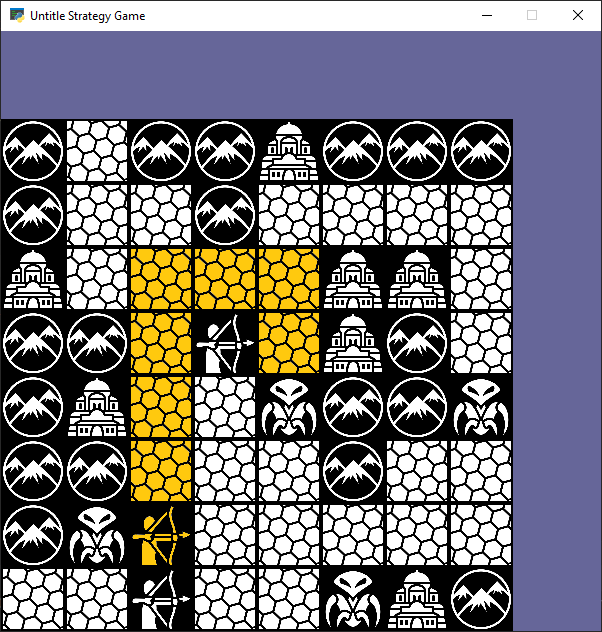
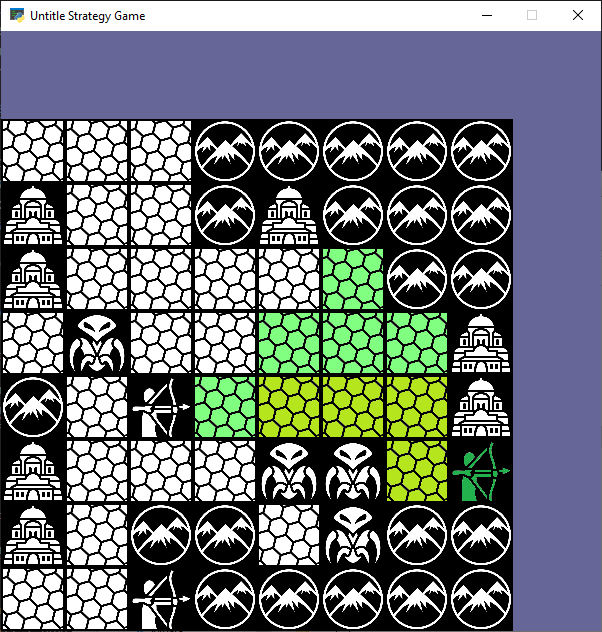
Updated README file, uploaded new screenshots and gif.

diff --git a/README.md b/README.md
@@ -1,6 +1,6 @@
 #### What is this game?
 
-At the current state, there is nothing to play. The game is in the very early stage of the development.
+The game is in the very early stage of the development and there is not much to play with. That said, I am getting close to the first pre-alpha release – please see ROADMAP.md for more info.
 
 
 #### OK, so what will this game be like in the future?
@@ -15,14 +15,25 @@ The goal is to learn something new. I will try to use design patterns, tinker wi
 
 #### How does it look like?
 
-Right now, the game looks pretty basic, please see below.
+For the prototyping, I use graphics from game-icons.net (appropiate license notices are included in this repository). At some point, I would like to overhaul the graphics and use a custom-made pixel sprites. 
 
-![alt text](https://github.com/VedVid/untitled-strategy-game/blob/development/images/1.png)
+![player-movement](https://github.com/VedVid/untitled-strategy-game/blob/development/images/1.png)
+![player-attack](https://github.com/VedVid/untitled-strategy-game/blob/development/images/2.png)
+![gif](https://github.com/VedVid/untitled-strategy-game/blob/development/images/3.gif)
 
 
 #### How to play?
 
-You can download this repository, ensure that the requirements are met, and run `main.py`. When the game is mature enough, binary releases will be uploaded.
+You can download this repository, ensure that the requirements are met, and run `main.py`. When the game is mature enough, binary releases will be uploaded.  
+
+Game is mostly playable by mouse:
+* left mouse button on player character: select unit, switch from "move" command to "attack" command
+* left mouse button while in movement mode: move unit to the tile under the cursor
+* left mouse button while in attack mode: target tile under the cursor
+* left mouse button during animation: speed up the animation
+* right mouse button: "go back", so switch from "attack" command to "move" command, deselected unit
+* space key: end your turn.
+
 You can also run the tests by `python -m pytest`.
 
 
